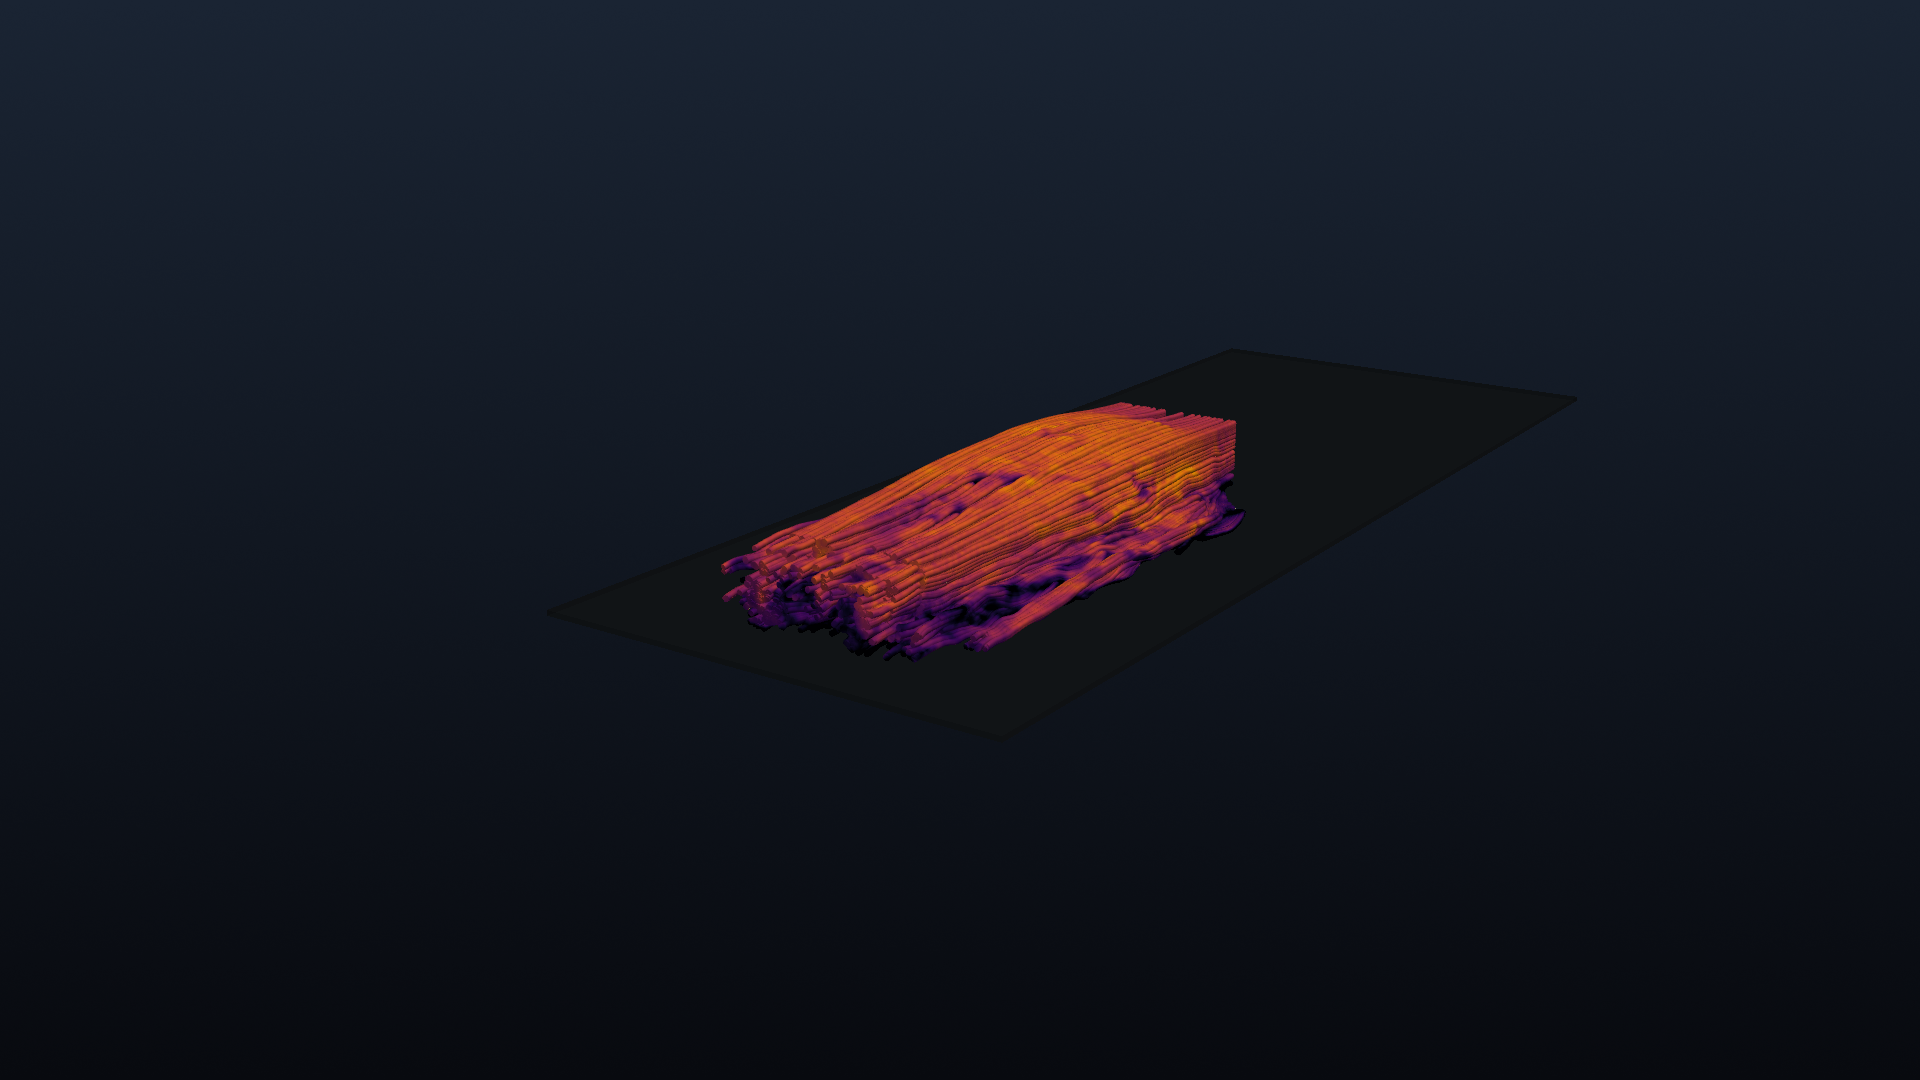
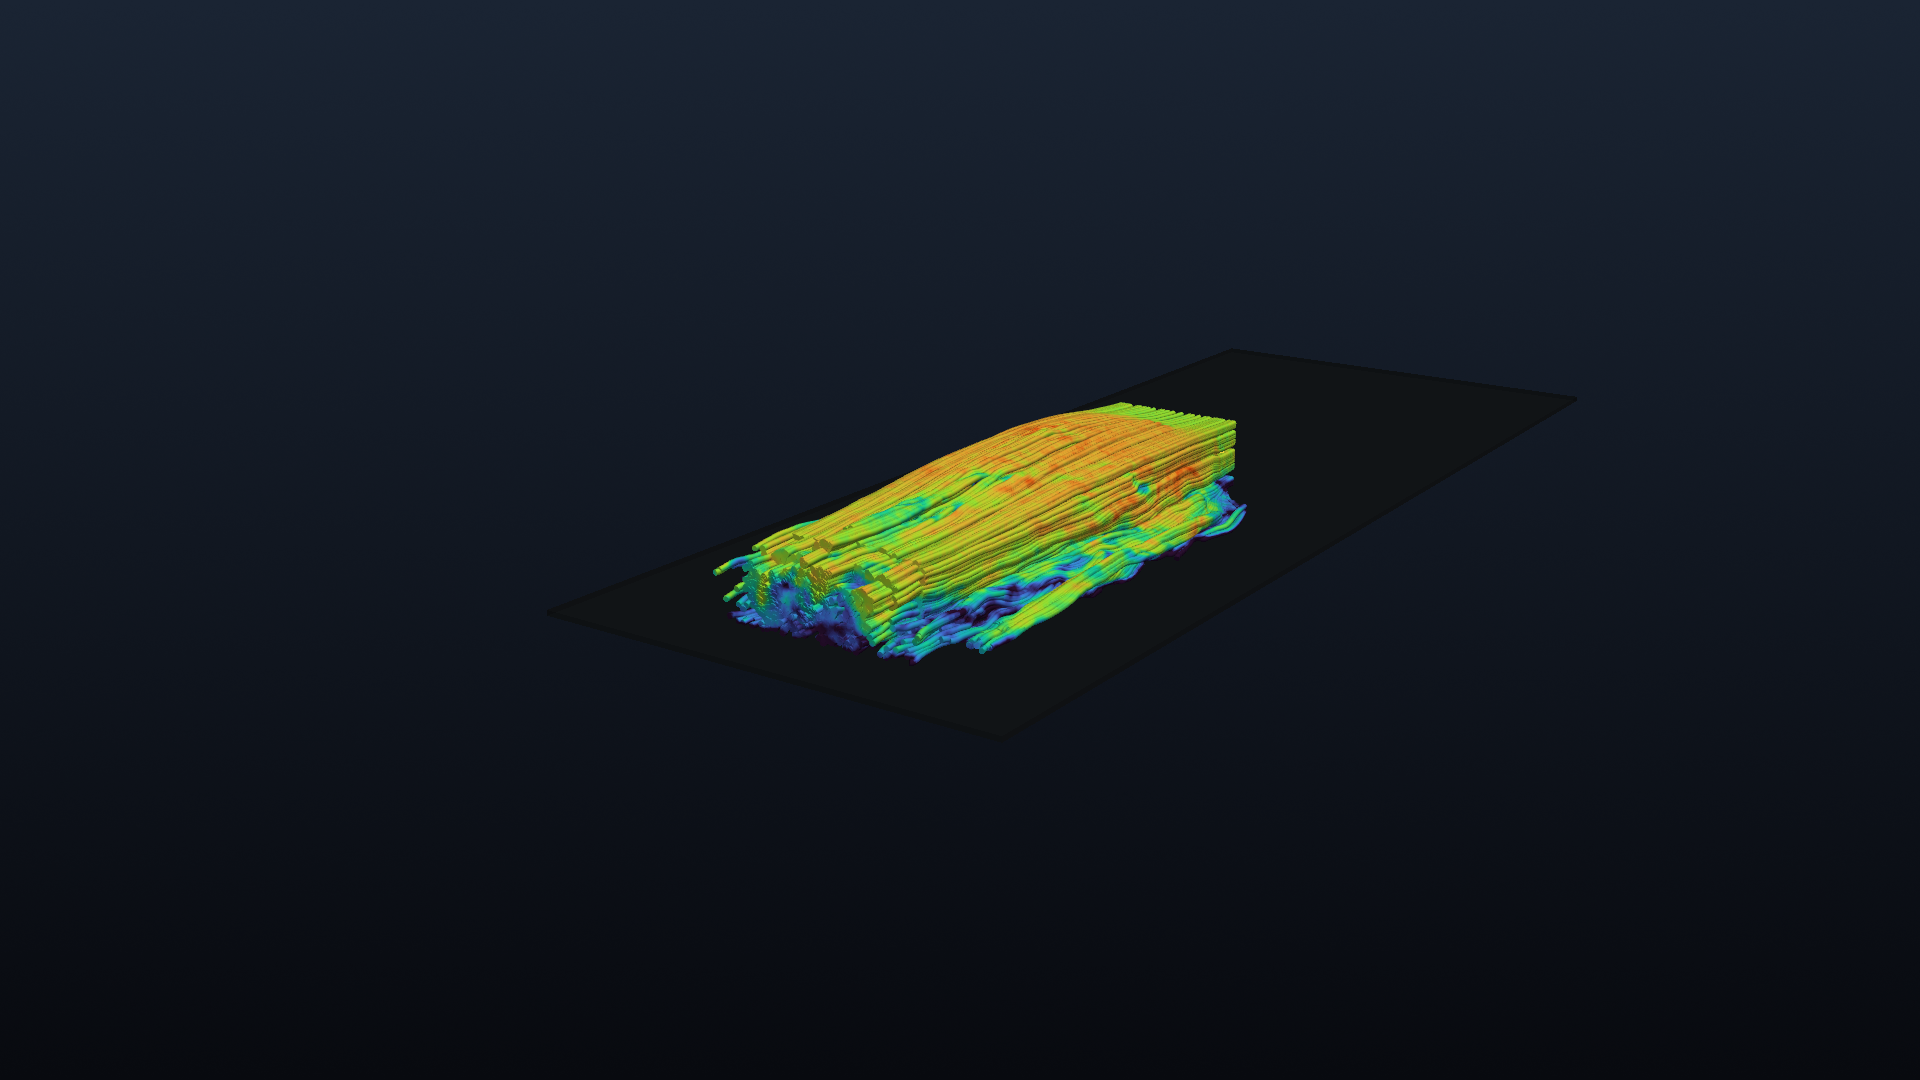
Further increase density: 4-plane seeding (40x30 each), 12000 smoke particles, higher opacities

Changed region(s): [[0.375, 0.3667, 0.6562, 0.6111]]

diff --git a/simulation/sstream/render.py b/simulation/sstream/render.py
@@ -206,9 +206,9 @@ def frame_times(timeline: Timeline, preview: bool = False) -> list[float]:
 # Smoke layer
 # ---------------------------------------------------------------------------
 
-SMOKE_MAX_PARTICLES = 8000  # Maximum density smoke for FluidX3D-level visualization
+SMOKE_MAX_PARTICLES = 12000  # Ultra-high density smoke for FluidX3D-level visualization
 SMOKE_TRAIL_LENGTH = 50
-SMOKE_EMIT_PER_FRAME = 80
+SMOKE_EMIT_PER_FRAME = 100
 SMOKE_SUBSTEPS = 4
 
 
@@ -363,14 +363,15 @@ def streamline_seeds(meta: dict) -> np.ndarray:
     
     # Multiple seeding planes for volumetric flow visualization
     rng = np.random.default_rng(20240515)
-    ny, nz = 30, 25
+    ny, nz = 40, 30
     seeds = []
     
-    # Seed at 3 different X positions for volume
+    # Seed at 4 different X positions for more volume
     x_positions = [
         max(bounds[0] + 0.05, model_xmin - 0.3 * model_len),
         max(bounds[0] + 0.15, model_xmin - 0.15 * model_len),
         max(bounds[0] + 0.25, model_xmin + 0.0 * model_len),
+        max(bounds[0] + 0.35, model_xmin + 0.15 * model_len),
     ]
     
     for x_rake in x_positions:
@@ -758,7 +759,7 @@ def render_frames(
             if trail is not None:
                 plotter.add_mesh(
                     trail, scalars="speed", cmap=cmap, clim=(0.5 * u_inlet, 1.5 * u_inlet),
-                    opacity=0.75, line_width=2, show_scalar_bar=False,
+                    opacity=0.85, line_width=2.5, show_scalar_bar=False,
                 )
         # Draw model last so it's not hidden by transparent layers
         if "model" in layers:
